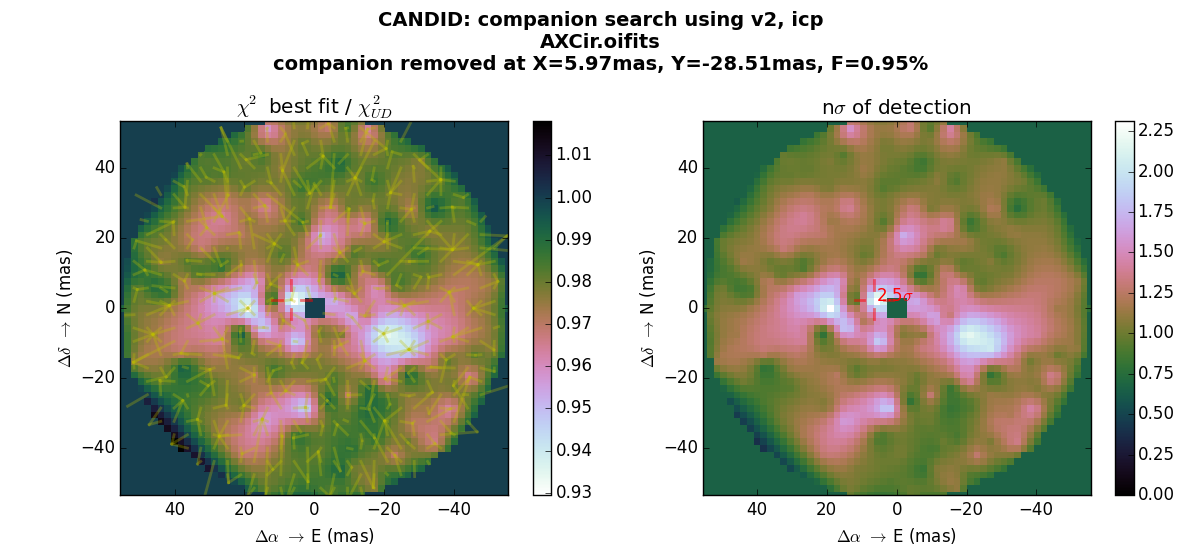
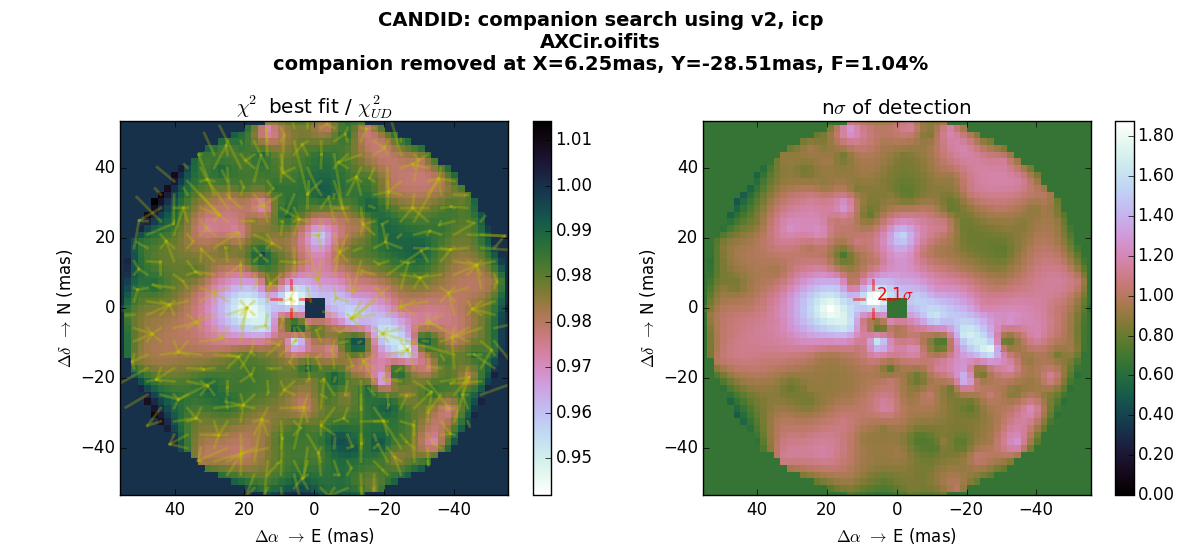
small bugs corrected, auto bandwithsmearing

diff --git a/candid.py b/candid.py
@@ -43,8 +43,10 @@ import sys
 #__version__ = '0.14 | 2015/09/30' # fixed some BIG bugs in fixed diameter option
 #__version__ = '0.15 | 2015/10/02' # np.nanmean instead of np.mean in _chi2func
 #__version__ = '0.16 | 2015/10/22' # weave to accelerate the binary visibility!
-__version__ = '0.17 | 2015/10/24' # weave to accelerate the binary T3!
-
+#__version__ = '0.17 | 2015/10/24' # weave to accelerate the binary T3!
+__version__ = '0.18 | 2015/10/26' # change in injection with a simpler algorithm;
+                                  # change a bit in detectionLimit with injeciton,
+                                  # doing a UD fit now; auto smearing setting
 
 print """
 ========================== This is CANDID ==============================
@@ -170,7 +172,7 @@ def _approxVUD(x='x', maxM=8):
                          cm(m)) for m in range(maxM+1)]
 
 # -- set the approximation for UD visibility
-_VUDX = ''.join(_approxVUD('X', maxM=6)).strip()
+_VUDX = ''.join(_approxVUD('X', maxM=7)).strip()
 _VUDX =_VUDX[3:]
 _VUDXeval = eval('lambda X:'+_VUDX)
 if False: # -- check approximation
@@ -277,8 +279,10 @@ def _V2binFast(uv, param):
                 wl = wavel[i]+(-0.5+j/(Nsmear-1.0))*dwavel;
                 vr[i] += f/Nsmear * visc * cos( phi/wl ) / (1+f);
                 vi[i] += f/Nsmear * visc * sin( phi/wl ) / (1+f);
-                v2[i] += ((vis + f*visc*cos(phi/wl))*(vis + f*visc*cos(phi/wl))/(1.+f)/(1.+f)+
-                    (f*visc*sin(phi/wl))*(vis + f*visc*sin(phi/wl))/(1.+f)/(1.+f))/Nsmear;
+                v2[i] += ((vis + f*visc*cos(phi/wl))*
+                          (vis + f*visc*cos(phi/wl))/(1.+f)/(1.+f)+
+                         (f*visc*sin(phi/wl))*
+                         (f*visc*sin(phi/wl))/(1.+f)/(1.+f))/Nsmear;
                 }
             }
         } else {
@@ -1529,7 +1533,7 @@ class Open:
         return
     def fitMap(self, step=None,  fig=1, addfits=False, addCompanion=None,
                removeCompanion=None, rmin=None, rmax=None, fratio=2.0, diam=None,
-               diamc=None, doNotFit=None):
+               diamc=None, doNotFit=None, fitAlso=None):
         """
         - filename: a standard OIFITS data file
         - observables = ['cp', 'scp', 'ccp', 'v2', 't3'] list of observables to take
@@ -1646,11 +1650,11 @@ class Open:
                     if p is None:
                         # -- single thread:
                         self._cb_fitFunc(_fitFunc(params[-1], self._chi2Data,
-                                    self.observables, None, _doNotFit))
+                                    self.observables, fitAlso, _doNotFit))
                     else:
                         # -- multiple threads:
                         p.apply_async(_fitFunc, (params[-1], self._chi2Data,
-                                 self.observables, None, _doNotFit),
+                                 self.observables, fitAlso, _doNotFit),
                                  callback=self._cb_fitFunc)
                     k += 1
         if not p is None:
@@ -1855,9 +1859,13 @@ class Open:
         for ii, i in enumerate(np.argsort([x['chi2'] for x in allMin2])):
             print ' | BEST FIT %d: chi2=%5.2f'%(ii, allMin2[i]['chi2'])
             allMin2[i]['best']['f'] = np.abs(allMin2[i]['best']['f'] )
-            for s in ['x', 'y', 'f', 'diam*']:
+            keys = ['x', 'y', 'f', 'diam*']
+            if not fitAlso is None:
+                keys.extend(fitAlso)
+            for s in keys:
                 print ' | %5s='%s, '%8.4f +- %6.4f %s'%(allMin2[i]['best'][s],
                                                      allMin2[i]['uncer'][s], paramUnits(s))
+
 
             # -- http://www.aanda.org/articles/aa/pdf/2011/11/aa17719-11.pdf section 3.2
             print ' | chi2r_UD=%4.2f, chi2r_BIN=%4.2f, NDOF=%d'%(self.chi2_UD, allMin2[i]['chi2'], self.ndata()-1),
@@ -2198,43 +2206,59 @@ class Open:
         for _k in self.dwavel.keys():
             param['dwavel;'+_k] = self.dwavel[_k]
 
-        _meas, _errs, _uv, _types, _wl = _generateFitData(self._rawData, self.observables)
-
-
+        _meas, _errs, _uv, _types, _wl = _generateFitData(self._rawData,
+                                                          self.observables)
         _mod = _modelObservables(filter(lambda c: c[0].split(';')[0] in
                                  self.observables, self._chi2Data), param)
+
         plt.close(fig)
         plt.figure(fig, figsize=(11,8))
         plt.clf()
         N = len(set(_types))
         for i,t in enumerate(set(_types)):
-            plotMod = False
             w = np.where((_types==t)*(1-np.isnan(_meas)))
             ax1 = plt.subplot(2,N,i+1)
             plt.title(t.split(';')[1])
-            plt.ylabel(t.split(';')[0])
             if any(np.iscomplex(_meas[w])):
-                _meas[w] = np.angle(_meas[w])
-                _mod[w] = np.angle(_mod[w])
-                plotMod = True
-            plt.errorbar(_uv[w], _meas[w], fmt=',', yerr=_errs[w], marker=None,
-                         color='k', alpha=0.2)
-            plt.scatter(_uv[w], _meas[w], c=_wl[w], marker='o', cmap='hot_r', alpha=0.5)
-            plt.plot(_uv[w], _mod[w], '.k', alpha=0.2)
-            if plotMod:
-                plt.plot(_uv[w], _mod[w]+2*np.pi, '.k', alpha=0.1)
-                plt.plot(_uv[w], _mod[w]-2*np.pi, '.k', alpha=0.1)
-                plt.ylim(-np.max(np.abs(_meas[w]+_errs[w])),
-                          np.max(np.abs(_meas[w]+_errs[w])))
+                res = (np.angle(_meas[w]/_mod[w])+np.pi)%(2*np.pi) - np.pi
+                print res.shape, _errs[w].shape
+                res /= _errs[w]
+                res = np.float_(res)
+                _measw = np.angle(_meas[w]).real
+                _modw = np.angle(_mod[w]).real
 
+                plt.plot(_uv[w], np.mod(_modw+np.pi/2, np.pi)-np.pi/2, '.k', alpha=0.1)
+                plt.scatter(_uv[w], np.mod(_measw+np.pi/2,np.pi)-np.pi/2, c=_wl[w],
+                            marker='o', cmap='hot_r', alpha=0.5)
+                plt.errorbar(_uv[w], np.mod(_measw+np.pi/2, np.pi)-np.pi/2,
+                            fmt=',', yerr=_errs[w], marker=None, color='k', alpha=0.2)
+                plt.ylabel(t.split(';')[0]+r': angle, mod $\pi$')
+
+                # for z in [-2,0,2]:
+                #     plt.plot(_uv[w], _mod[w]+z*np.pi, '.k', alpha=0.1)
+                #     plt.scatter(_uv[w], _meas[w]+z*np.pi, c=_wl[w],
+                #                 marker='o', cmap='hot_r', alpha=0.5)
+                #     plt.errorbar(_uv[w], _meas[w]+z*np.pi, fmt=',', yerr=_errs[w],
+                #                 marker=None, color='k', alpha=0.2)
+                #
+                # plt.ylim(-np.max(np.abs(_meas[w]+_errs[w])),
+                #           np.max(np.abs(_meas[w]+_errs[w])))
+            else:
+                res = (_meas[w]-_mod[w])/_errs[w]
+                plt.errorbar(_uv[w], _meas[w], fmt=',', yerr=_errs[w], marker=None,
+                             color='k', alpha=0.2)
+                plt.scatter(_uv[w], _meas[w], c=_wl[w], marker='o', cmap='hot_r', alpha=0.5)
+                plt.plot(_uv[w], _mod[w], '.k', alpha=0.2)
+                plt.ylabel(t.split(';')[0])
+
+            # -- residuals
             plt.subplot(2,N,i+1+N, sharex=ax1)
-            plt.plot(_uv[w], (_meas[w]-_mod[w])/_errs[w], '.k', alpha=0.5)
+            plt.plot(_uv[w], res, '.k', alpha=0.5)
             plt.xlabel('B/$\lambda$')
             plt.ylabel('residuals ($\sigma$)')
             plt.ylim(-np.max(np.abs(plt.ylim())), np.max(np.abs(plt.ylim())))
-
-        #print _meas.shape, _mod.shape
         return
+
     def _cb_nsigmaFunc(self, r):
         """
         callback function for detectionLimit()

diff --git a/README.md b/README.md
@@ -12,7 +12,6 @@ Note that if you use [LITpro](http://www.jmmc.fr/litpro_page.htm), you might fin
 * In general, position of the found companion is the same for LITpro and CANDID
 * LITpro tends to overestimate the flux ratio, because it does not take into account bandwidth smearing, whereas CANDID does. For AX Cir, the flux ratio found bt CANDID is 1%, whereas it is 0.8% for LITpro (or CANDID when bandwidth smearing is disabled).
 
-
 ### Detection limit
 It uses Chi2 statistics to estimate the level of detection in "number of sigmas".
 
@@ -33,15 +32,15 @@ The code has *not* been deeply error proofed. If you encounter problems or bugs,
  * It does not work properly with IPython Notebooks. [It seems to be known](https://github.com/ipython/ipython/issues/6109).
  * It works better with the IPython console, though it sometimes seems unresponsive (it makes sometimes the estimation of running time unreliable). Moreover ctrl+C does not stop the code.
  * The smoothest behavior is obtained by running in a python shell.
+* We use [scipy.weave](http://docs.scipy.org/doc/scipy/reference/tutorial/weave.html) to execute C code in line, hence a C compiler is required. On Mac OSX, Xcode is required. Note that you will need to run in the following command line `sudo xcrun cc` in order to agree to the XCode licence, overwise, the weave code will not compile and give you compilations errors.
 
 ## Examples:
 
-The following example can be found in [axcir.py](https://github.com/amerand/CANDID/blob/master/axcir.py).
+The following example can be found in [axcir.py](axcir.py).
 
-* **chi2 Maps**. These are useful because fast, but dangerous because it is easy to miss a companion just using those. On FIG1 and FIG2, we show to runs for different diamaters and flux ratio: either the diameter is fitted to the V2 data ([FIG1](https://github.com/amerand/CANDID/blob/master/doc/figure_1.png)). The chi2 map shows a minimum only if the grid if fine enough (the structure in the map should be clear, not pixelated) but also if the parameters (inc. the flux ratio) are very close to the actual ones.
-* **fit Maps**. These are better, but much slower than chi2 maps. If V2 are present, the diameter will be fitted ([FIG2](https://github.com/amerand/CANDID/blob/master/doc/figure_2.png)). Note that once a companion is found, it can be removed analytically from the data and the fit map ran again ([FIG3](https://github.com/amerand/CANDID/blob/master/doc/figure_3.png)): this demontrates that, in the case of our example, the secondary "detections" are only artefact from the main companion.
-* **detection limits**. We imlemented 2 methods; Absil's and our companion injection. Note that they give slightly different results: we argue that our method is more robust to correlated noise (read our paper!). When you have detected a companion and wish to estimate the detection limit, it is important to first remove analytically the companion ([FIG5](https://github.com/amerand/CANDID/blob/master/doc/figure_5.png)).
-
+* **chi2 Maps**. These are useful because fast, but dangerous because it is easy to miss a companion just using those. On FIG1 and FIG2, we show to runs for different diamaters and flux ratio: either the diameter is fitted to the V2 data ([FIG1](doc/figure_1.png)). The chi2 map shows a minimum only if the grid if fine enough (the structure in the map should be clear, not pixelated) but also if the parameters (inc. the flux ratio) are very close to the actual ones.
+* **fit Maps**. These are **MUCH** better, but slower than chi2 maps. If V2 are present, the diameter will be fitted ([FIG2](doc/figure_2.png)). Note that once a companion is found, it can be removed analytically from the data and the fit map ran again ([FIG3](doc/figure_3.png)): this demontrates that, in the case of our example, the secondary "detections" are only artefact from the main companion.
+* **detection limits**. We implemented 2 methods; Absil's and our companion injection ([Gallenne et al. 2015](http://arxiv.org/abs/1505.02715)). Note that they give slightly different results: we argue that our method is more robust to correlated noise (read our paper!). When you have detected a companion and wish to estimate the detection limit, it is important to first remove the companion ([FIG5](doc/figure_5.png)).
 
 **We strongly recommend you use plain python2.7, instead of iPython, because of the bad interactions between iPython and the multiprocessing library, which makes the estimation of the running time very unreliable.**
 
@@ -78,11 +77,11 @@ The easiest thing to try is a chi2 map, assuming a certain flux ratio for the co
  | at X,Y  :   6.38, -28.55 mas
  | NDOF=1499  > n sigma detection:  0.99 (fully uncorrelated errors)
 ```
-![Figure 1](https://github.com/amerand/CANDID/blob/master/doc/figure_1.png)
+![Figure 1](doc/figure_1.png)
 
 
-### FIG2 - FITMAP:
-Doing a grid of fit is much more efficient than doing a simple Chi2 Map (like for ([FIG1](https://github.com/amerand/CANDID/blob/master/doc/figure_1.png))). In a FITMAP, a set of binary fits are performed starting from a 2D grid of companion position. The plot displays the interpolated map of the chi2 minima (left), with the path of the fit, from start to finish (yellow lines). FITMAP will compute, a posteriori, what was the correct step size 'step='. In our example below, we let CANDID chose the step size, based on the angular resoultion of the data (1.2 wavelength/baseline). The companion is detected at the same position as for the previous example, with a much better dynamic range.
+### FITMAP:
+Doing a grid of fit is much more efficient than doing a simple Chi2 Map (like for ([FIG1](doc/figure_1.png))). In a FITMAP, a set of binary fits are performed starting from a 2D grid of companion position. The plot displays the interpolated map of the chi2 minima (left), with the path of the fit, from start to finish (yellow lines). FITMAP will compute, a posteriori, what was the correct step size 'step='. In our example below, we let CANDID chose the step size, based on the angular resoultion of the data (1.2 wavelength/baseline). The companion is detected at the same position as for the previous example, with a much better dynamic range.
 ```
 >>> axcir.fitMap(fig=2)
  > step= not given, using sqrt(2) x smallest spatial scale = 3.78 mas
@@ -104,9 +103,9 @@ Doing a grid of fit is much more efficient than doing a simple Chi2 Map (like fo
  | diam*=   0.8007 +- 0.0088 mas
  | chi2r_UD=0.98, chi2r_BIN=0.73, NDOF=1499 -> n sigma: 14.37 (assumes uncorr data)
 ```
-![Figure 2](https://github.com/amerand/CANDID/blob/master/doc/figure_2.png)
+![Figure 2](doc/figure_2.png)
 
-### FIG3 - FITMAP, after removing companion
+### FITMAP, after removing companion
 CANDID offers the possibility, once a companion has been detected, to remove it analytically from the data and rerun a FITMAP. This allows to estimate the dynamic range of the data set, but also to detect fainter tertiary compents. fitMap stores the best fit in the dictionnary "bestFit", which key "best" contains the dictionnary containing the parameters. Note that axcir.bestFit['uncer'] contains the corresponding error bars.
 
 ```
@@ -132,9 +131,9 @@ CANDID offers the possibility, once a companion has been detected, to remove it 
  | chi2r_UD=0.74, chi2r_BIN=0.69, NDOF=1499 -> n sigma:  2.02 (assumes uncorr data)
 ```
 
-![Figure 3](https://github.com/amerand/CANDID/blob/master/doc/figure_3.png)
+![Figure 3](doc/figure_3.png)
 
-### FIG4 - ERROR BARS:
+### ERROR BARS by bootstraping:
 In order to better estimate the uncertainties on the companion we found, we can use bootstraping to estimate the incertainties around the best fit parameters. The default starting is the best fitted position: since we made a fit with an analytical removal of the companion, the currently stored companion is not the one found on Fig2; thankfully we stored it in the variable 'p'.
 
 On the correlations plots, the red dot with error bars is the fitted position; the blue ellipses are derived from the bootstrap (using a principal component analysis); the values given for each parameters are the median; the uncertainties are the 16% and 84% percentile (one sigma).
@@ -151,11 +150,11 @@ On the correlations plots, the red dot with error bars is the fitted position; t
  |        y = -28.5068 + 0.1419 - 0.1686 mas
 ```
 
-![Figure 4](https://github.com/amerand/CANDID/blob/master/doc/figure_4.png)
+![Figure 4](doc/figure_4.png)
 
 
-### FIG5 - DETECTION LIMIT, after analytically removing companion:
-We here remove the companion analytically (using a high contrast hypothesis) from the V2 and CP data. This is mandatory in order to estimate the detection limit: the statistical hypothesis of the test is that the data are best described by a uniform disk.
+### DETECTION LIMIT, after analytically removing companion:
+We here remove the companion analytically from the V2 and CP data. This is mandatory in order to estimate the detection limit: the statistical hypothesis of the test is that the data are best described by a uniform disk.
 
 ```
 >>> axcir.detectionLimit(fig=5, step=1.5, removeCompanion=p)
@@ -170,7 +169,7 @@ We here remove the companion analytically (using a high contrast hypothesis) fro
  > Method: injection
  |================================================== | 99%   0 s remaining
 ```
-![Figure 5](https://github.com/amerand/CANDID/blob/master/doc/figure_5.png)
+![Figure 5](doc/figure_5.png)
 
 ### CONFIG parameters
 
@@ -186,12 +185,12 @@ This will, for example, set the maximum computing time to 300s (instead of the d
 
 Execution times on a Intel(R) Core(TM) i5-4308U CPU @ 2.80GHz, using 3 Cores (out of 4) for the AXcir data set:
 
-| function         | time |
-|------------------|------|
-| `chi2Map`        | 18 s |
-| `fitMap`         | 39 s |
-| `fitBoot`        |  9 s |
-| `detectionLimit` | 62 s |
+| function         |  time |
+|------------------|-------|
+| `chi2Map`        |  22 s |
+| `fitMap`         |  45 s |
+| `fitBoot`        |   9 s |
+| `detectionLimit` | 126 s |
 
 ### Multiprocessing
 
@@ -210,8 +209,8 @@ Because not all computation are parallelized and there are some overheads due to
 
 |N cores:         | 1 | 4  | 8 | 16 | 32 | 64 |
 |-----------------|---|----|---|----|----|----|
-|`fitMap`         | 1 | 3.5|7|11|15|16|
-|`detectionLimit` | 1 | 3.5|6|8 |9 |10|
+|`fitMap`         | 1 | 3.5| 7 | 11 | 15 | 16 |
+|`detectionLimit` | 1 | 3.5| 6 |  8 |  9 | 10 |
 
 8 cores is hence a good compromise.
 
@@ -221,12 +220,13 @@ Because not all computation are parallelized and there are some overheads due to
 https://github.com/amerand/CANDID
 
 ### Developpers
-[Antoine Mérand](mailto:amerand-at-eso.org) and [Alexandre Gallenne](mailto:agallenne-at-astro-udec.cl)
+[Antoine Mérand](mailto:amerand-at-eso.org) and [Alexandre Gallenne](mailto:agallenn-at-eso.org)
 
 ### Python dependencies
 python2.7, numpy, scipy, matplotlib and pyfits (or astropy)
 
-We also use scipy.weave to execute C code in line, hence a C compiler is required (Xcode on mac OS).
+We also use scipy.weave to execute C code in line, hence a C compiler is required (Xcode on mac OS). Note that you will need to run in the following command line `sudo xcrun cc` in order to agree to the XCode licence, overwise, the weave code will not compile.
+
 
 ### LICENCE (BSD)
 
